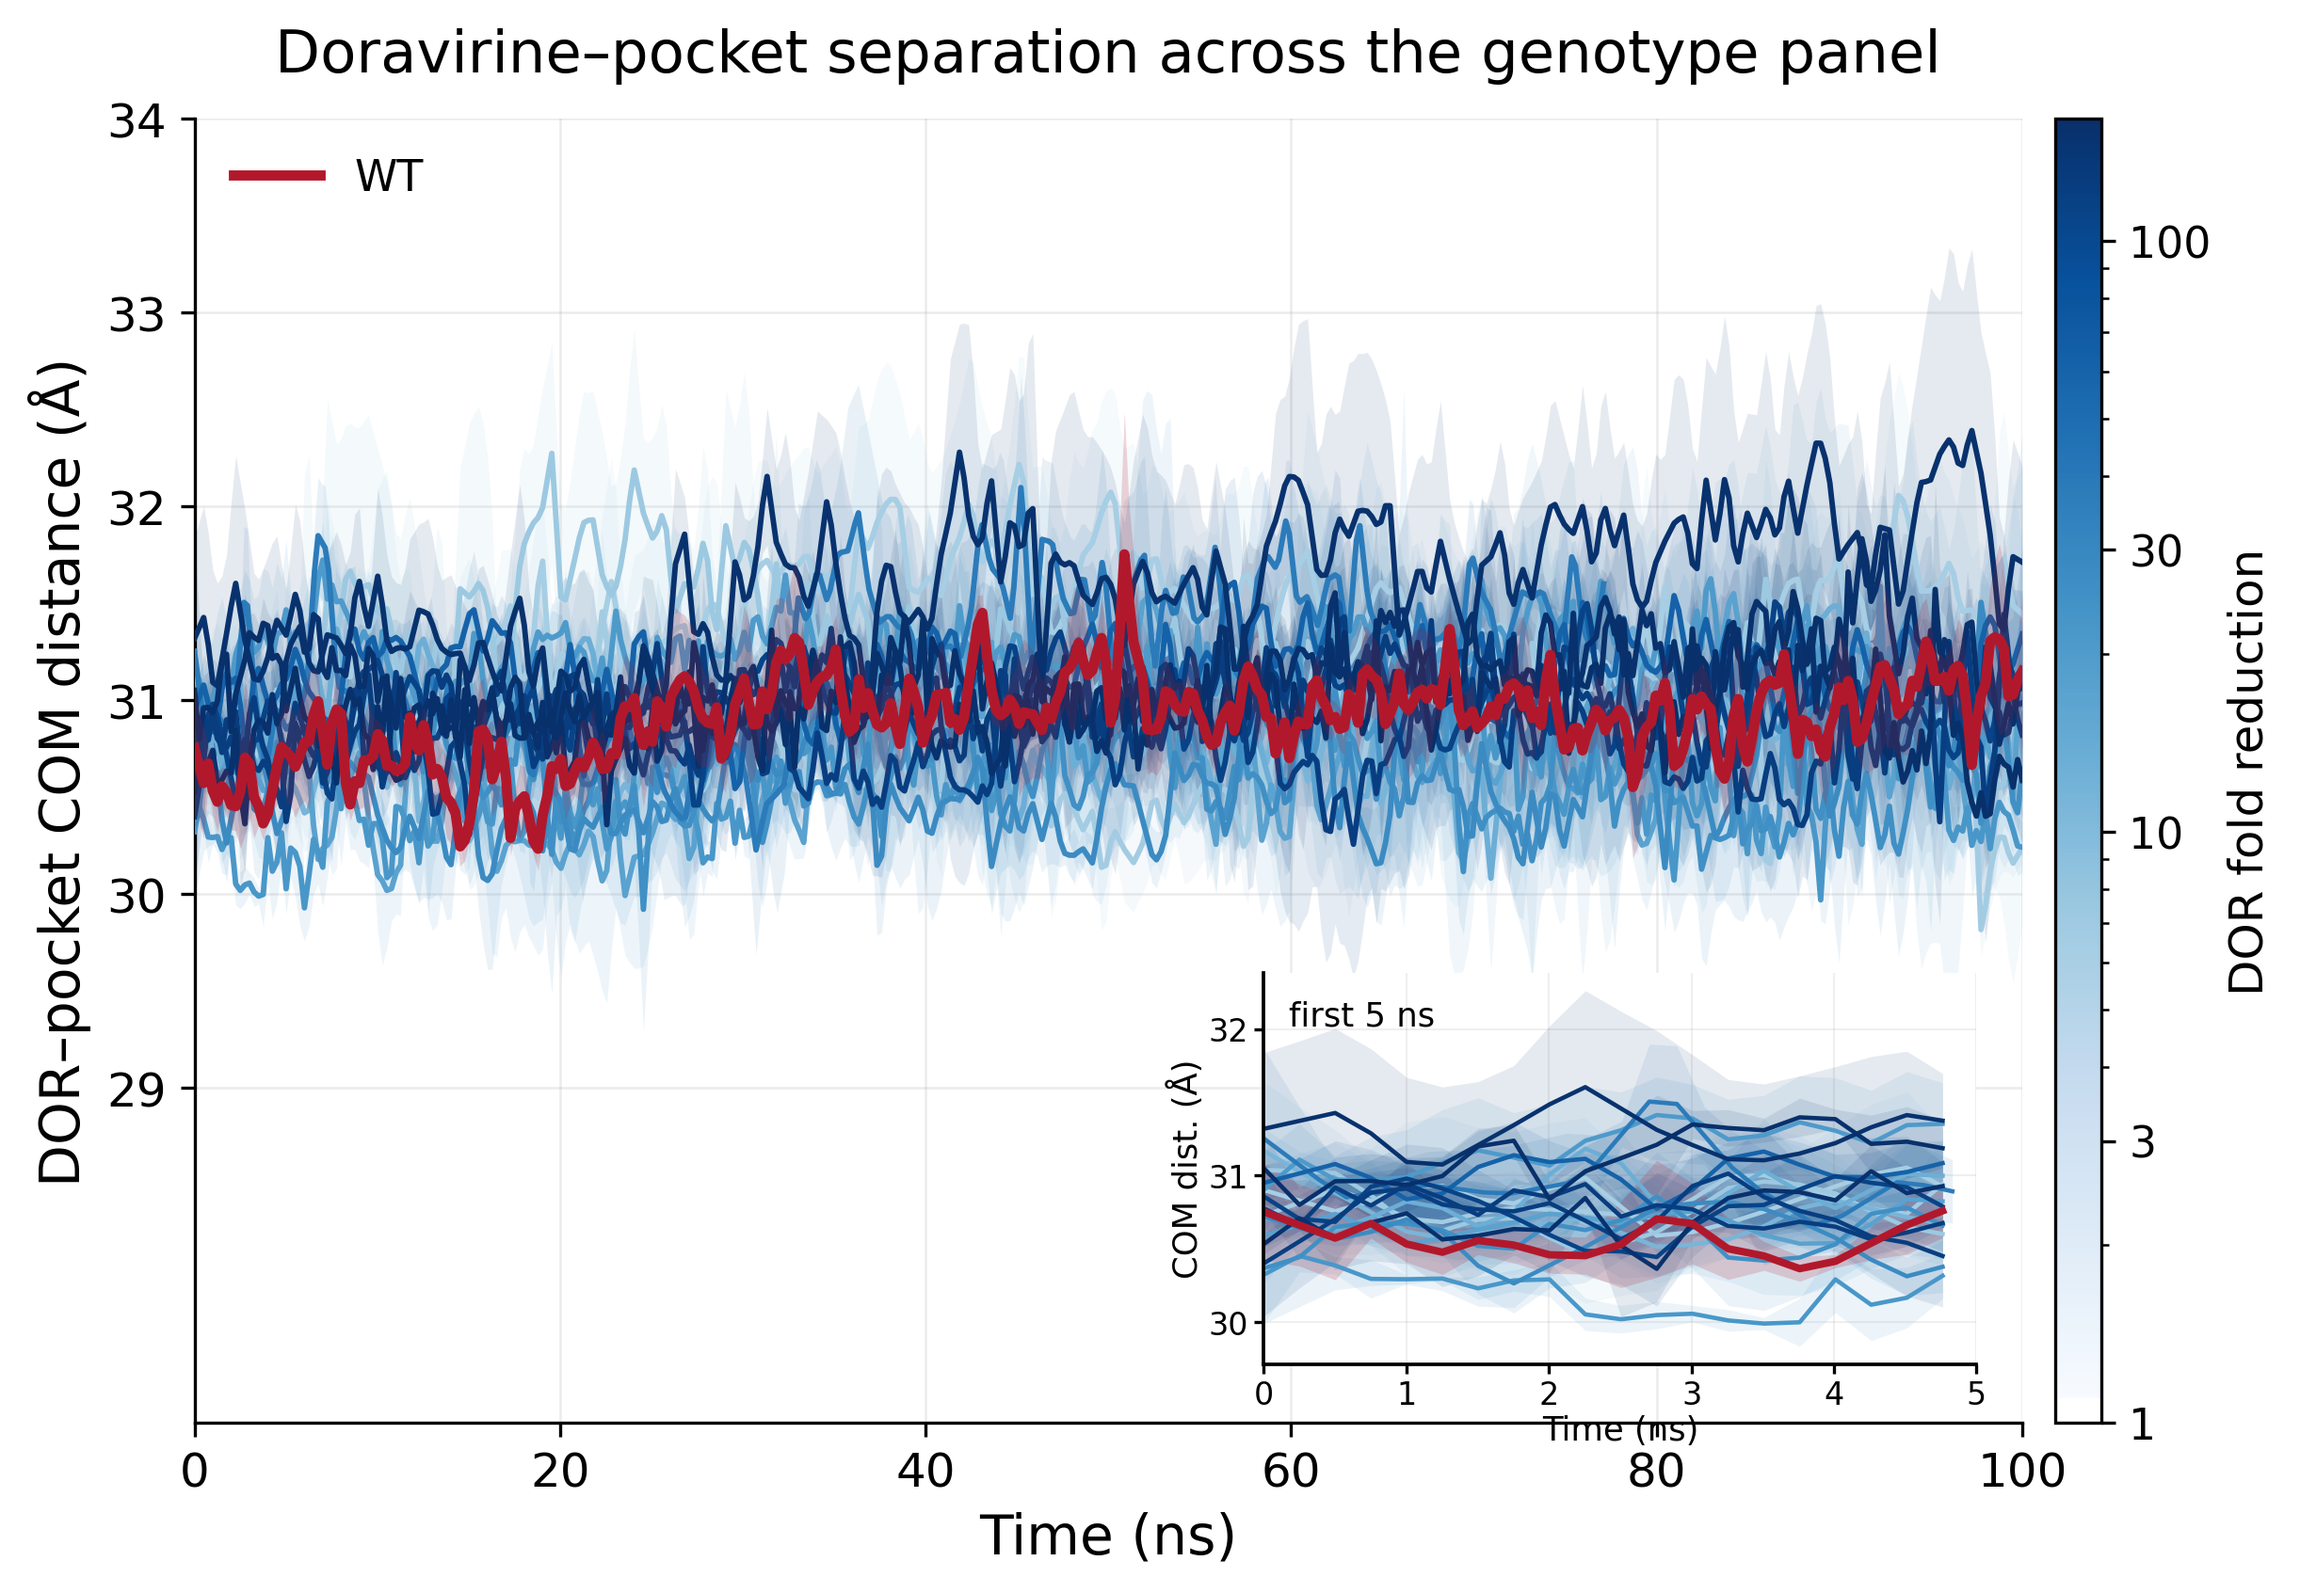
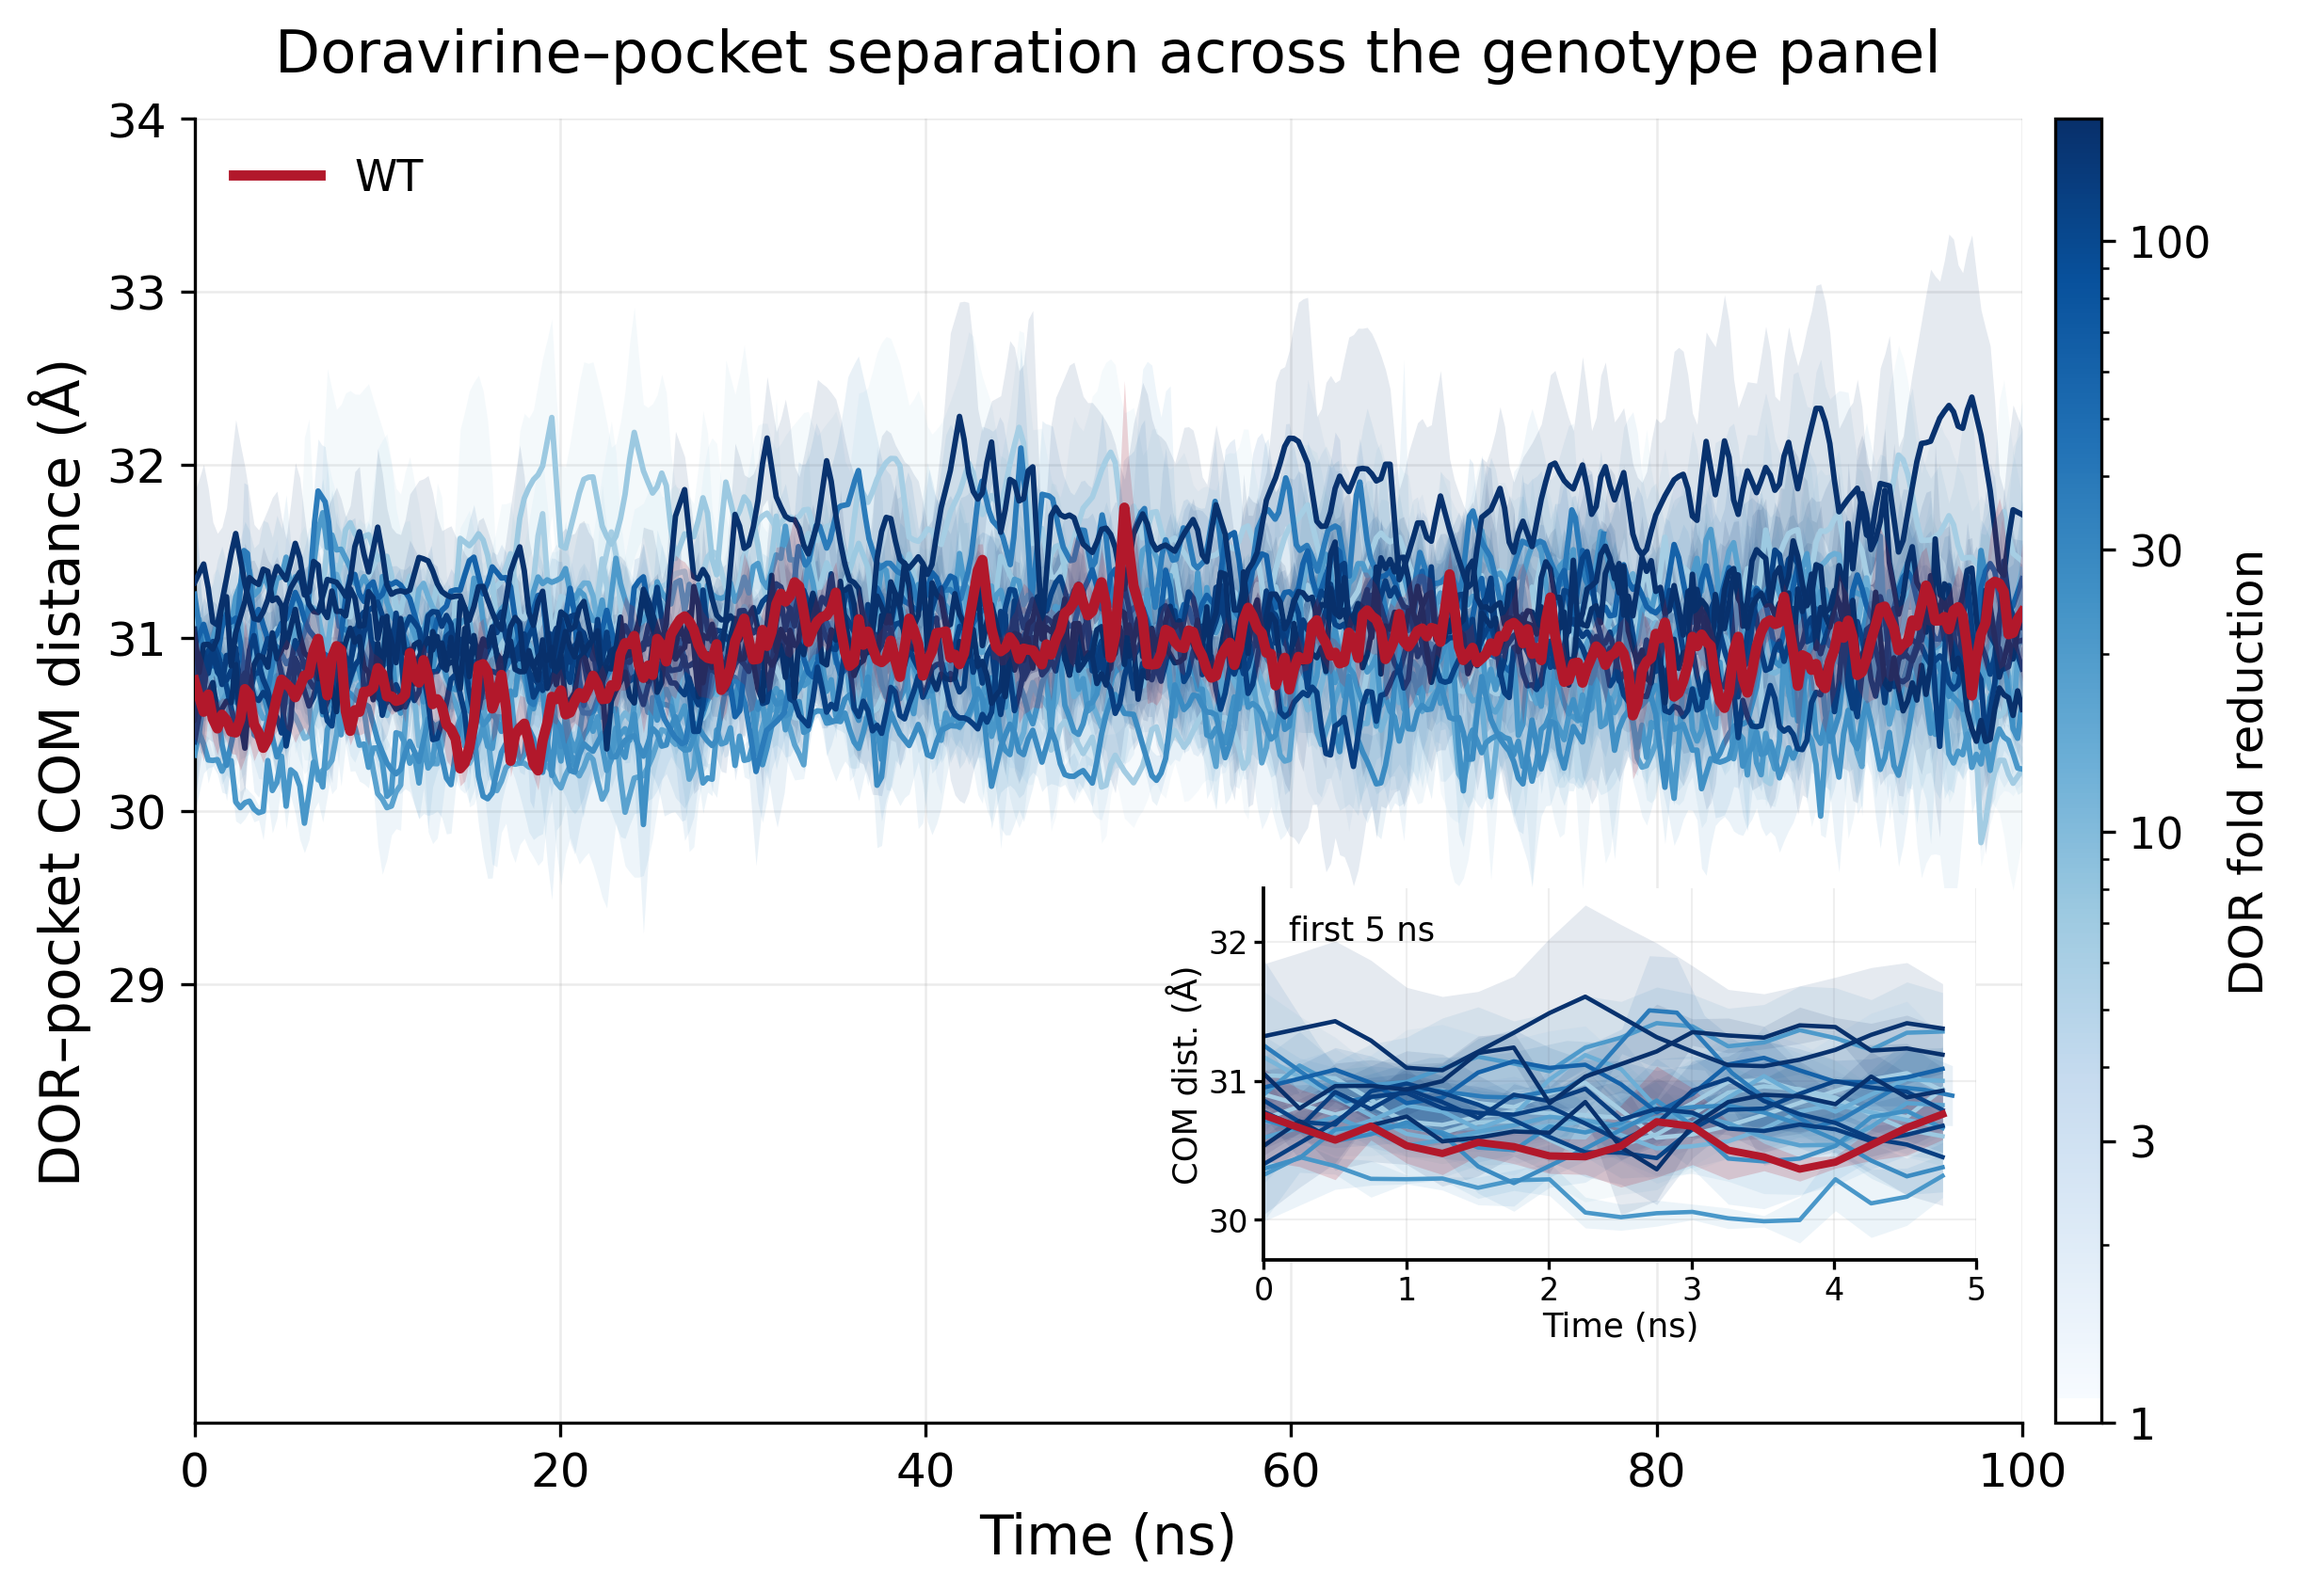
md_convergence: lift the insets clear of the main x-axis
The inset x-axis label sat close to the main panel's tick labels. Raises the
inset from y0 = 0.045 to 0.125 and widens the headroom default from 0.42 to 0.62
of the data range so the taller position still lands in blank space rather than
over the traces.

diff --git a/src/analysis/cli/plot_convergence_panel.py b/src/analysis/cli/plot_convergence_panel.py
@@ -33,7 +33,7 @@ METRICS = {
         "inset_ylabel": "C\u03b1 RMSD (\u00c5)",
         "title": "RT\u2013DOR backbone convergence across the genotype panel",
         "stem": "rmsd_convergence",
-        "inset_rect": (0.575, 0.045, 0.40, 0.30),
+        "inset_rect": (0.575, 0.125, 0.40, 0.285),
     },
     "dor_rmsd": {
         "column": "dor_rmsd_angstrom",
@@ -41,7 +41,7 @@ METRICS = {
         "inset_ylabel": "DOR RMSD (\u00c5)",
         "title": "Doravirine pose convergence across the genotype panel",
         "stem": "dor_rmsd_convergence",
-        "inset_rect": (0.575, 0.045, 0.40, 0.30),
+        "inset_rect": (0.575, 0.125, 0.40, 0.285),
     },
     "com_distance": {
         "column": "com_distance_angstrom",
@@ -49,7 +49,7 @@ METRICS = {
         "inset_ylabel": "COM dist. (\u00c5)",
         "title": "Doravirine\u2013pocket separation across the genotype panel",
         "stem": "com_distance_convergence",
-        "inset_rect": (0.585, 0.045, 0.39, 0.30),
+        "inset_rect": (0.585, 0.125, 0.39, 0.285),
     },
 }
 
@@ -76,7 +76,7 @@ def parse_args() -> argparse.Namespace:
     p.add_argument("--metric", choices=sorted(METRICS), default="ca_rmsd")
     p.add_argument("--output", type=Path, default=None,
                    help="Defaults to the metric's conventional filename under md_convergence/plots.")
-    p.add_argument("--inset-headroom", type=float, default=0.42,
+    p.add_argument("--inset-headroom", type=float, default=0.62,
                    help=(
                        "Blank vertical space added below the data, as a fraction of the data "
                        "range, so the inset does not overlap the traces. 0 disables it."
